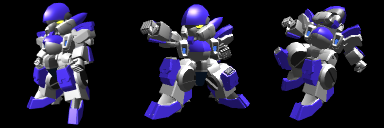
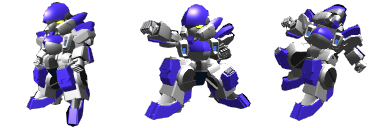
攻撃モーションを作成した。

diff --git a/public/javascripts/ArmdozerSprite.js b/public/javascripts/ArmdozerSprite.js
@@ -1,0 +1,54 @@
+function ArmdozerSprite(spec,my) {
+    var SPRITE_WIDTH = 128;
+    var SPRITE_HEIGHT = 128;
+    var DEFAULT_X_FOR_DIRECTION_RIGHT = 192;
+    var DEFAULT_Y_FOR_DIRECTION_RIGHT = 80;
+    var DEFAULT_X_FOR_DIRECTION_LEFT = 0;
+    var DEFAULT_Y_FOR_DIRECTION_LEFT = 80;
+    var DIRECTION_RIGHT = 'right';
+    var MOTION_STAND = 0;
+    var MOTION_ATTACK = 1;
+    var MOTION_DAMAGE = 2;
+
+    var that = new Sprite(SPRITE_WIDTH,SPRITE_HEIGHT);
+    var pict = spec.pict;
+    var direction = spec.direction;
+
+    that.doAttackMotion = doAttackMotion;
+    that.doHitMotion = doHitMotion;
+    that.doStandMotion = doStandMotion;
+    init();
+
+    function init() {
+        that.image = pict;
+        that.originX = SPRITE_WIDTH/2;
+        that.originY = SPRITE_HEIGHT/2;
+        that.scaleX = direction===DIRECTION_RIGHT ? 1 : -1;
+        doStandMotion();
+    }
+
+    function doAttackMotion(){
+        that.frame = MOTION_ATTACK;
+        that.tl.moveBy(-100*that.scaleX,0,10)
+            .delay(20)
+            .moveBy(-50*that.scaleX,0,5)
+            .moveBy(50*that.scaleX,0,5);
+    }
+
+    function doHitMotion(){
+        that.tl.delay(30)
+            .then(function(){
+                that.frame = MOTION_DAMAGE;
+            })
+            .moveBy(10*that.scaleX,0,2)
+            .moveBy(-10*that.scaleX,0,2);
+    }
+
+    function doStandMotion(){
+        that.x = direction===DIRECTION_RIGHT ? DEFAULT_X_FOR_DIRECTION_RIGHT : DEFAULT_X_FOR_DIRECTION_LEFT;
+        that.y = direction===DIRECTION_RIGHT ? DEFAULT_Y_FOR_DIRECTION_RIGHT : DEFAULT_Y_FOR_DIRECTION_LEFT;
+        that.frame = MOTION_STAND;
+    }
+
+    return that;
+}

diff --git a/publicForDebug/javascripts/hitMotionDebug.js b/publicForDebug/javascripts/hitMotionDebug.js
@@ -1,0 +1,43 @@
+var core;
+var PICT_PREFIX = location.origin + '/images/';
+var PICT_GRANBRAVER = PICT_PREFIX + 'GranBraver.PNG';
+var PICT_LANDOZER = PICT_PREFIX + 'Landozer.PNG';
+
+enchant();
+window.onload = function() {
+    core = new Core(320, 480);
+    core.fps = 60;
+    core.rootScene.backgroundColor = "black";
+    core.preload(PICT_GRANBRAVER);
+    core.preload(PICT_LANDOZER);
+    core.start();
+    core.onload = hitMotionDebug;
+};
+
+function hitMotionDebug(){
+    var player = ArmdozerSprite({
+        pict : core.assets[PICT_GRANBRAVER],
+        direction : 'right'
+    });
+    var enemy = ArmdozerSprite({
+        pict : core.assets[PICT_LANDOZER],
+        direction : 'left'
+    });
+
+    //プレイヤーの攻撃
+    //core.rootScene.addChild(enemy);
+    //core.rootScene.addChild(player);
+    //player.doAttackMotion();
+    //enemy.doHitMotion();
+
+    //敵の攻撃
+    core.rootScene.addChild(player);
+    core.rootScene.addChild(enemy);
+    player.doHitMotion();
+    enemy.doAttackMotion();
+    core.rootScene.tl.delay(120).then(function(){
+        player.doStandMotion();
+        enemy.doStandMotion();
+    });
+
+}

diff --git a/publicForDebug/hitMotionDebug.html b/publicForDebug/hitMotionDebug.html
@@ -1,0 +1,16 @@
+<html>
+  <head>
+    <title>Gブレイバー 攻撃アニメデバッグ</title>
+    <script type="text/javascript" src="/javascripts/jquery-2.0.3.min.js"></script>
+    <script type="text/javascript" src="/javascripts/header.js"></script>
+    <script type="text/javascript">
+        writeHeader('/header.html');
+    </script>
+    <script type="text/javascript" src="/javascripts/hitMotionDebug.js"></script>
+    <style type="text/css">
+      body {margin: 0;}
+    </style>
+  </head>
+　　<body>
+  </body>
+</html>

diff --git a/public/header.html b/public/header.html
@@ -11,4 +11,5 @@
 <script type="text/javascript" src="/javascripts/setArmdozerScene.js"></script>
 <script type="text/javascript" src="/javascripts/topScene.js"></script>
 <script type="text/javascript" src="/javascripts/attackEffect.js"></script>
+<script type="text/javascript" src="/javascripts/ArmdozerSprite.js"></script>
 <script type="text/javascript" src="/socket.io/socket.io.js"></script>
